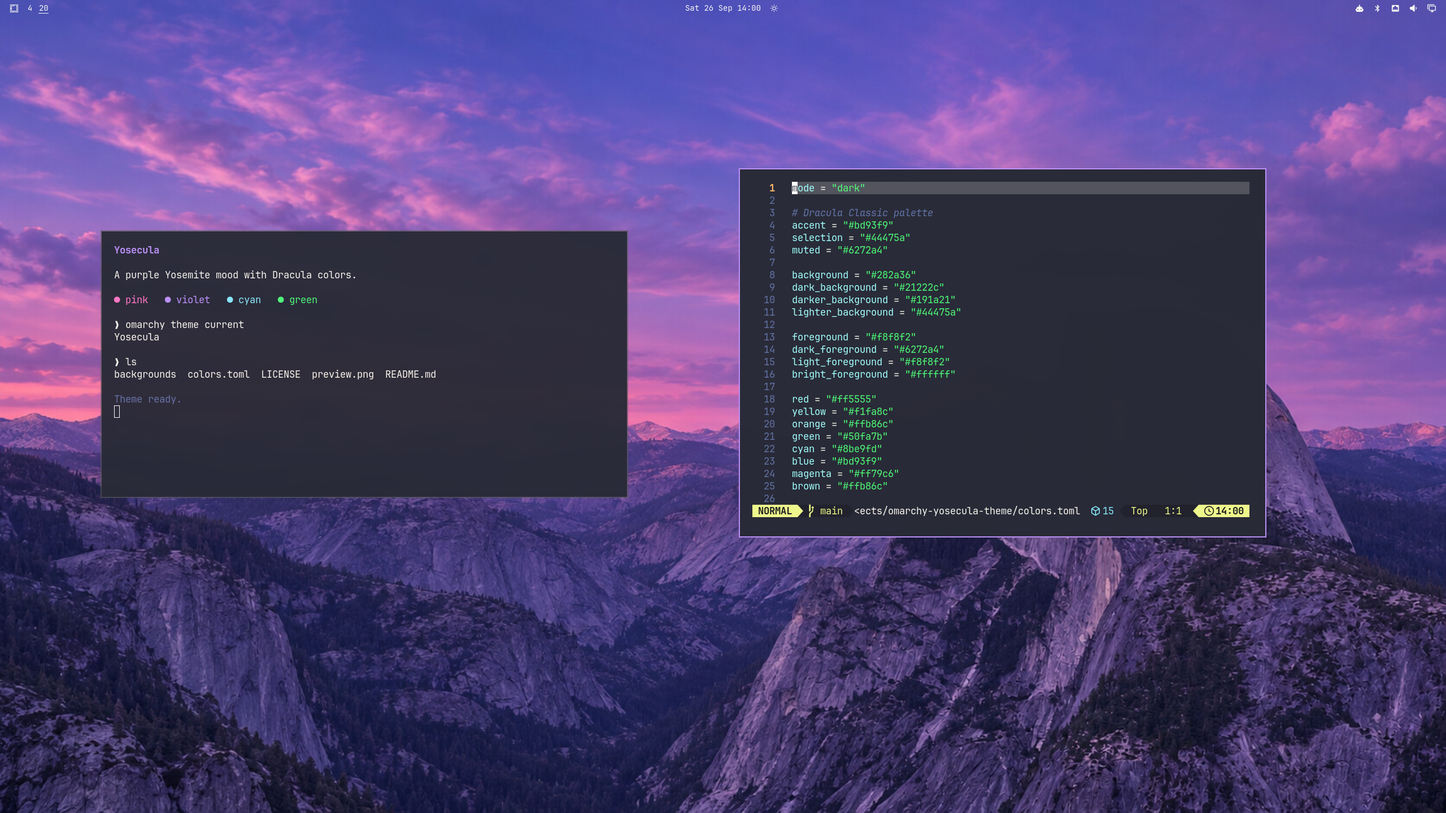
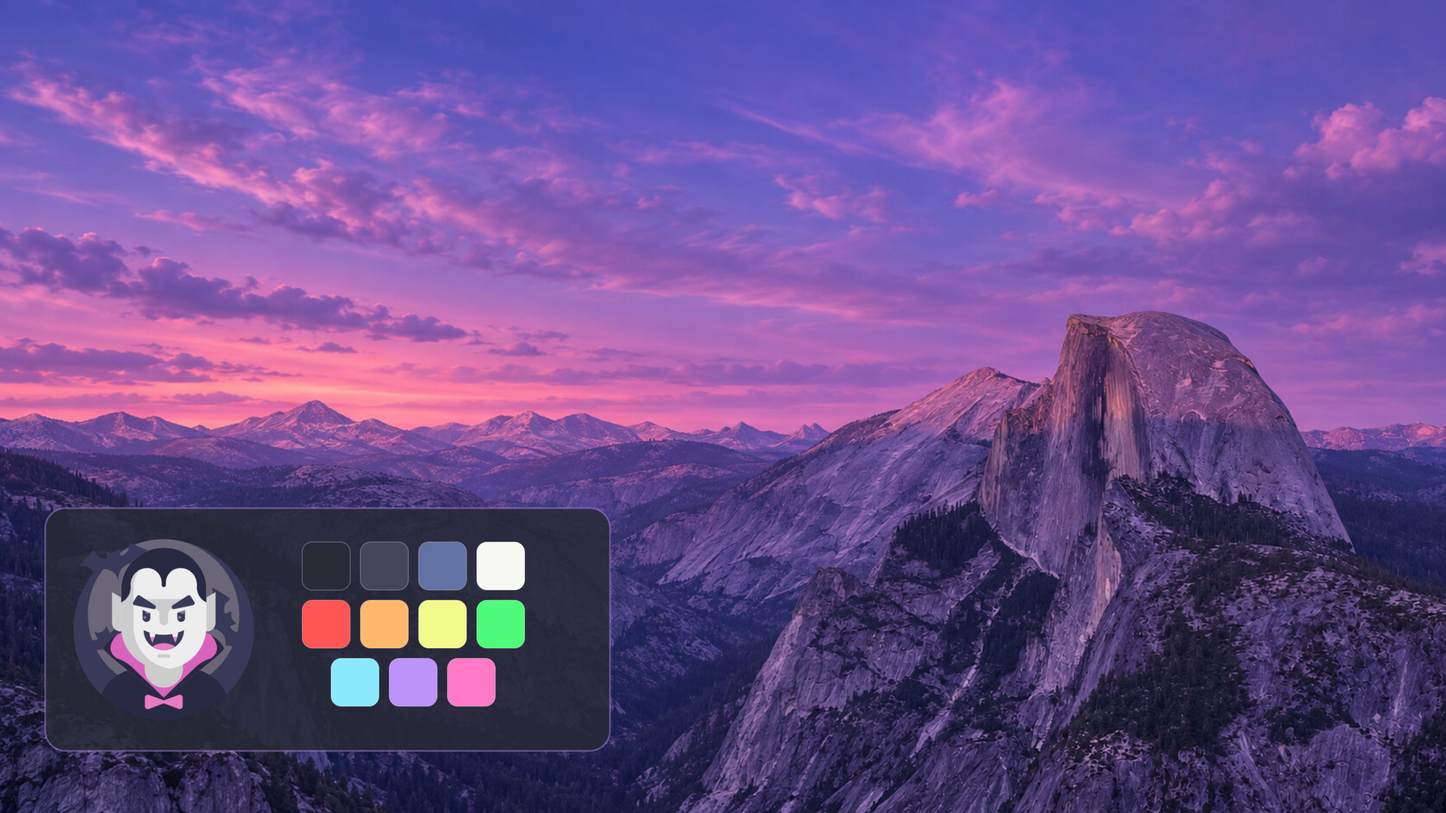
Replace preview with palette artwork

diff --git a/README.md b/README.md
@@ -2,7 +2,7 @@
 
 Yosecula is a dark [Omarchy](https://omarchy.org/) theme with a palette inspired by [Dracula](https://draculatheme.com/) and a purple Yosemite-inspired wallpaper. Its name pairs Yosemite with Dracula.
 
-![Yosecula desktop preview](preview.png)
+![Yosecula wallpaper, Dracula mascot, and color palette](preview.png)
 
 ## Install
 
@@ -20,10 +20,10 @@ omarchy theme set yosecula
 
 - `colors.toml` defines the theme's dark palette.
 - `backgrounds/` contains the wallpaper used by the theme.
-- `preview.png` shows the theme on a desktop and appears in Omarchy's theme selector.
+- `preview.png` shows the wallpaper and color palette and appears in Omarchy's theme selector.
 
 ## Credits
 
-The color palette is inspired by the Dracula color scheme. The wallpaper was created for this theme from [Hu Nhu's Half Dome photograph](https://commons.wikimedia.org/wiki/File:Glacier_Point_View_of_Half_Dome_at_Sunset_at_Yosemite_National_Park.jpg), which the photographer released under CC0. This repository is an independent community theme for Omarchy.
+The color palette is inspired by the Dracula color scheme. The Dracula mascot in the preview belongs to [Dracula Theme](https://draculatheme.com/). The wallpaper was created for this theme from [Hu Nhu's Half Dome photograph](https://commons.wikimedia.org/wiki/File:Glacier_Point_View_of_Half_Dome_at_Sunset_at_Yosemite_National_Park.jpg), which the photographer released under CC0. This repository is an independent community theme for Omarchy.
 
 The theme is available under the [MIT license](LICENSE).
